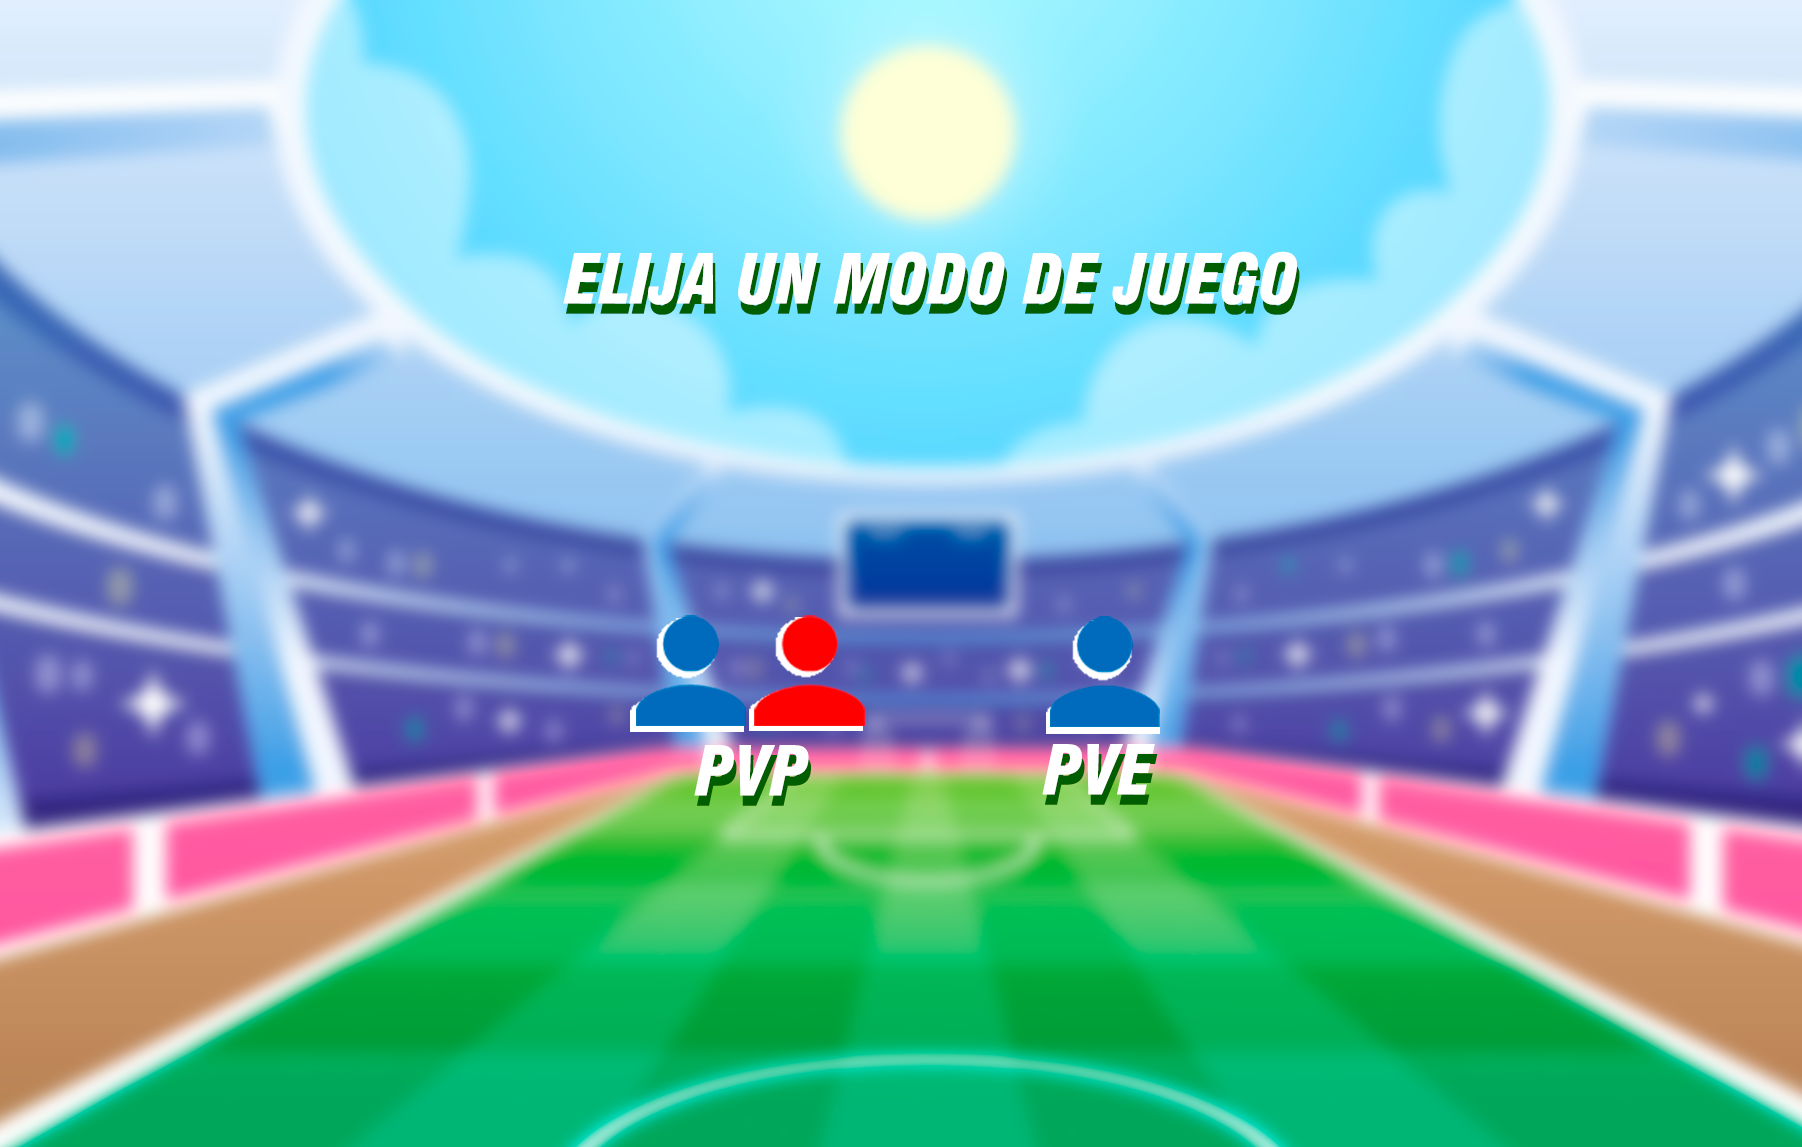
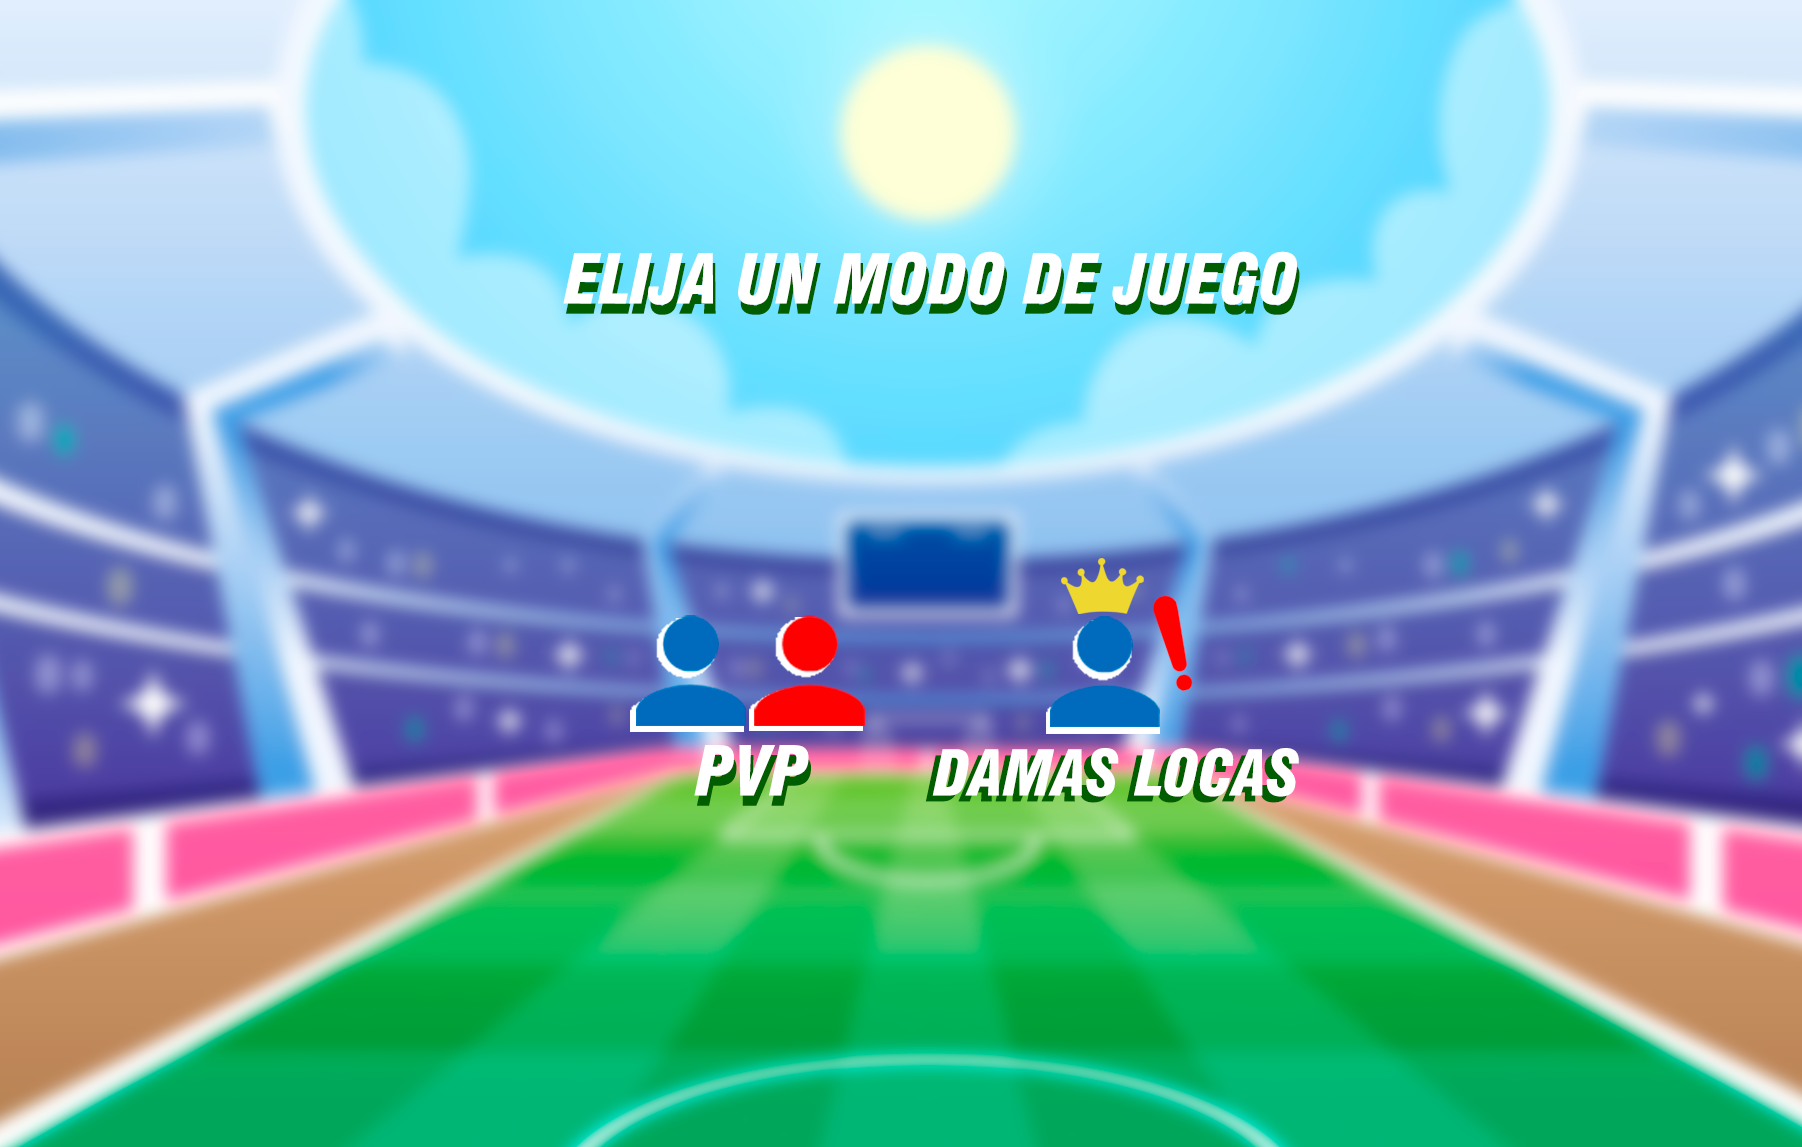
Promocion terminada modos de juego y reinicio turno

Changed region(s): [[0.4972, 0.6408, 0.7148, 0.7018], [0.5905, 0.4882, 0.6837, 0.6103]]

diff --git a/AjedrezGambitoDeMurcia-master/src/ListaPiezas.cpp b/AjedrezGambitoDeMurcia-master/src/ListaPiezas.cpp
@@ -84,6 +84,22 @@ void ListaPiezas::lista_inicial(paises p1,paises p2) {
 		agregarRey(p1, EQUIPO_A, 1, 5);
 		agregarRey(p2, EQUIPO_B, 8, 5);
 }
+void ListaPiezas::damasLocas(paises p1, paises p2) {
+	for (int i = 1;i < 9;i++) {
+		agregarPeon(p1, EQUIPO_A, 2, i);
+		agregarPeon(p2, EQUIPO_B, 7, i);
+	}
+	for (int i = 1;i < 9;i++) {
+		if (i == 5) {
+			agregarRey(p1, EQUIPO_A, 1, 5);
+			agregarRey(p2, EQUIPO_B, 8, 5);
+		}
+		else {
+			agregarDama(p1, EQUIPO_A, 1, i);
+			agregarDama(p2, EQUIPO_B, 8, i);
+		}
+	}
+}
 void ListaPiezas::agregarPeon(paises p,equipos e,int fil,int col) {
 	Peon* aux = new Peon;
 	aux->inicializa(p, e, PEON, fil, col);
@@ -1011,5 +1027,72 @@ bool ListaPiezas::comprobarPromocion(pieza* pi, int fil, int col) {
 			return true;
 		}
 		else return false;
+	}
+}
+void ListaPiezas::dibujarPuntito() {
+	float x = 0, y = 0;
+	if (promo == pDAMA) {
+		x = 0;
+		y = 0;
+	}
+	if (promo == pTORRE) {
+		x = 1.015;
+		y = 0;
+	}
+	if (promo == pALFIL) {
+		x = 0;
+		y = 1;
+	}
+	if (promo == pCABALLO) {
+		x = 1.015;
+		y = 1;
+	}
+	if (turno == EQUIPO_A) {
+		glPushMatrix();
+		glScalef(0.75, 0.75, 1);
+		glTranslatef(-2.05-x, -7.575-y, 0);
+		glEnable(GL_TEXTURE_2D);
+		glBindTexture(GL_TEXTURE_2D, ETSIDI::getTexture("fotos/promosign.png").id);
+		glDisable(GL_LIGHTING);
+		glEnable(GL_BLEND);
+		glBlendFunc(GL_SRC_ALPHA, GL_ONE_MINUS_SRC_ALPHA);
+		glEnable(GL_ALPHA_TEST);
+		glAlphaFunc(GL_GREATER, 0.0);
+		glBegin(GL_POLYGON);
+		glTexCoord2d(0, 1); glVertex3f(-5.3f, 2.87f, 2.0f);
+		glTexCoord2d(1, 1); glVertex3f(-4.1, 2.87f, 2.0f);
+		glTexCoord2d(1, 0); glVertex3f(-4.1, 3.75f, 2.0f);
+		glTexCoord2d(0, 0); glVertex3f(-5.3f, 3.75f, 2.0f);
+		glEnd();
+		glDisable(GL_BLEND);
+		glDisable(GL_ALPHA_TEST);
+		glEnable(GL_LIGHTING);
+		glDisable(GL_TEXTURE_2D);
+		glBindTexture(GL_TEXTURE_2D, 0);
+		glPopMatrix();
+	}
+	if (turno == EQUIPO_B) {
+		glPushMatrix();
+		glScalef(0.75, 0.75, 1);
+		glTranslatef(1.75 + x, -7.55 - y, 0);
+		glEnable(GL_TEXTURE_2D);
+		glBindTexture(GL_TEXTURE_2D, ETSIDI::getTexture("fotos/mirror.png").id);
+		glDisable(GL_LIGHTING);
+		glEnable(GL_BLEND);
+		glBlendFunc(GL_SRC_ALPHA, GL_ONE_MINUS_SRC_ALPHA);
+		glEnable(GL_ALPHA_TEST);
+		glAlphaFunc(GL_GREATER, 0.0);
+		glBegin(GL_POLYGON);
+		glTexCoord2d(0, 1); glVertex3f(5.3f, 2.87f, 2.0f);
+		glTexCoord2d(1, 1); glVertex3f(4.1f, 2.87f, 2.0f);
+		glTexCoord2d(1, 0); glVertex3f(4.1f, 3.75f, 2.0f);
+		glTexCoord2d(0, 0); glVertex3f(5.3f, 3.75f, 2.0f);
+		glEnd();
+		glDisable(GL_BLEND);
+		glDisable(GL_ALPHA_TEST);
+		glEnable(GL_LIGHTING);
+		glDisable(GL_TEXTURE_2D);
+		glBindTexture(GL_TEXTURE_2D, 0);
+		glPopMatrix();
 	}
 }

diff --git a/AjedrezGambitoDeMurcia-master/src/game.cpp b/AjedrezGambitoDeMurcia-master/src/game.cpp
@@ -385,7 +385,8 @@ void Game::mousePress(int button, int state, int x, int y) {
 				y = 0;
 				estado = seleccionJUG1;
 				ETSIDI::play("sonidos/select.wav");
-				//pve
+				//DAMAS_LOCAS
+				tablero.damaslocas = true;
 
 			}
 
@@ -584,6 +585,7 @@ void Game::mousePress(int button, int state, int x, int y) {
 				tablero.reiniciarTablero();
 				estado = modosJuego;
 				ETSIDI::play("sonidos/select.wav");
+				tablero.damaslocas = false;
 			}
 
 
@@ -610,6 +612,7 @@ void Game::mousePress(int button, int state, int x, int y) {
 				tablero.reiniciarTablero();
 				estado = modosJuego;
 				ETSIDI::play("sonidos/select.wav");
+				tablero.damaslocas = false;
 			}
 		}
 	}

diff --git a/AjedrezGambitoDeMurcia-master/src/tablero.cpp b/AjedrezGambitoDeMurcia-master/src/tablero.cpp
@@ -7,7 +7,8 @@
 void Tablero::inicializa() {
     jugador1.setPos(-5, 0);
     jugador2.setPos(5, 0);
-    piezas.lista_inicial(pa1, pa);
+    if (!damaslocas)piezas.lista_inicial(pa1, pa);
+    else piezas.damasLocas(pa1, pa);
     for (int i = 0; i < 8; i++) {
         for (int j = 0; j < 8; j++) {
             if ((i == 0) || (i == 1) || (i == 6) || (i == 7)) {
@@ -23,7 +24,7 @@ void Tablero::inicializa() {
 void Tablero::dibujarTablero() {
     piezas.dibuja();
     piezas.dibujarmovs();
-    
+    piezas.dibujarPuntito();
 
 
 	int i, j;

diff --git a/AjedrezGambitoDeMurcia-master/src/game.h b/AjedrezGambitoDeMurcia-master/src/game.h
@@ -6,7 +6,7 @@
 
 
 
-enum Estado {inicioPartida,modosJuego,seleccionJUG1,seleccionJUG2,modo_pvp,modo_rapido,pausa,jugando,ganaJUG1, ganaJUG2,tablas};
+enum Estado {inicioPartida,modosJuego,seleccionJUG1,seleccionJUG2,modo_DAMA_LOCA,pausa,jugando,ganaJUG1, ganaJUG2,tablas};
 
 class Game
 {

diff --git a/AjedrezGambitoDeMurcia-master/src/ListaPiezas.h b/AjedrezGambitoDeMurcia-master/src/ListaPiezas.h
@@ -95,5 +95,7 @@ public:
 	void dibujarmovpos(pieza* pi, int fil, int col);
 	void dibujarmovs();
 	void anularenroque(pieza* pi, int fil, int col);
+	void dibujarPuntito();
 	void seleccionPromocion(int button, int state, int x, int y);
+	void damasLocas(paises p1, paises p2);
 };

diff --git a/AjedrezGambitoDeMurcia-master/src/tablero.h b/AjedrezGambitoDeMurcia-master/src/tablero.h
@@ -19,6 +19,7 @@ public:
 	GLfloat y1=0;
 	GLfloat x2=8;
 	GLfloat y2=8;
+	bool damaslocas;
 	int flagrz = 0;
 	float a = 1.5;
 	//Coordenadas cord;
